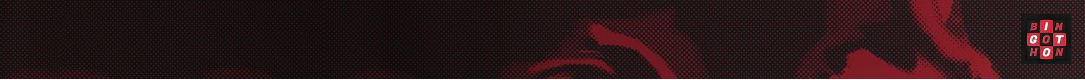
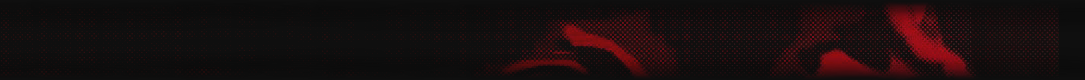
some minor info bar changes

diff --git a/graphics/css/info-bar.css b/graphics/css/info-bar.css
@@ -132,7 +132,7 @@ img.emoji {
 #generalMessagesContainer {
 	z-index: 0;
 	left: 710px;
-	width: 1104px;
+	width: 1210px;
 	background-image: url('../images/info-bar/ticker-bg.png');
 	padding: 0 20px;
 	font-size: 22px;
@@ -157,16 +157,16 @@ img.emoji {
 	color: #bfbfbf;
 }
 
-/* Clock */
+/* Clock 
 #clockContainer {
 	font-size: 33px;
 	z-index: 1;
 	left: 1771px;
 	width: 124px;
 	background-image: url('../images/info-bar/clock-bg.png');
-	padding-left: 25px; /* This is for the shadow part of the image. */
+	padding-left: 25px; /* This is for the shadow part of the image. * /
 }
 
 #clockContainer span {
 	width: 0.3em;
-}
+}*/
